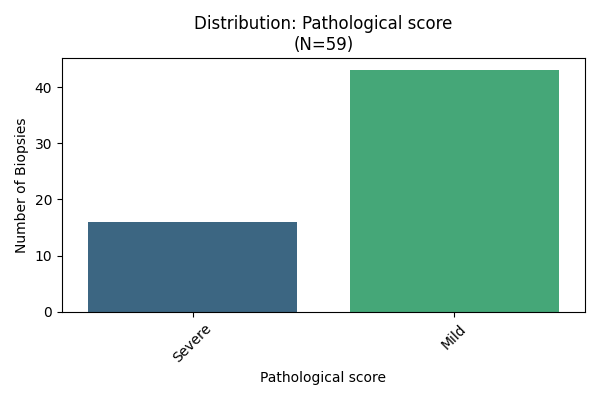
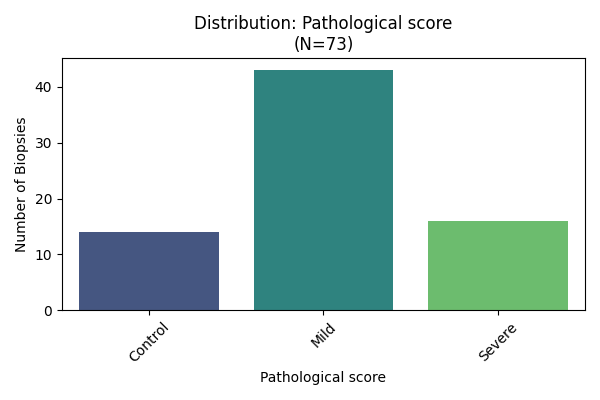
check data bias - add control biopsies

diff --git a/data_exploration/check_data_bias.py b/data_exploration/check_data_bias.py
@@ -38,8 +38,50 @@ def analyze_targets():
         print(f"Error: Metadata file not found at {DATA_PATH}")
         return
 
-    df = pd.read_csv(DATA_PATH)
-    print(f"Loaded {len(df)} Biopsies.")
+    df_biopsy = pd.read_csv(DATA_PATH)
+    print(f"Loaded {len(df_biopsy)} Biopsies from metadata.")
+
+    # --- Load FOVs and Merge Controls (Logic from run_association_mining.py) ---
+    fovs_path = MIBI_GUT_DIR_PATH + "fovs_metadata.csv"
+    
+    if os.path.exists(fovs_path):
+        df_fovs = pd.read_csv(fovs_path)
+        
+        # Filter unknown 'S_*' (same as _remove_unknown_biopsies)
+        df_fovs = df_fovs[~df_fovs["FOV"].astype(str).str.startswith("S_")]
+        
+        # Get unique Biopsies from FOVs
+        # "Patient" in fovs_metadata maps to "Biopsy_ID"
+        unique_biopsies = df_fovs[["Patient"]].drop_duplicates().rename(columns={"Patient": "Biopsy_ID"})
+        print(f"Total Biopsies from FOVs (excluding S_*): {len(unique_biopsies)}")
+
+        # Pre-process Biopsy Metadata (Shift Numerics) so 0 can be Control
+        numeric_targets = []
+        categorical_targets = []
+        
+        for col in TARGETS:
+            if col in df_biopsy.columns:
+                 if pd.api.types.is_numeric_dtype(df_biopsy[col]):
+                    # Shift 0->1, 1->2... so 0 can be Control
+                    df_biopsy[col] = df_biopsy[col] + 1
+                    numeric_targets.append(col)
+                 else:
+                    categorical_targets.append(col)
+
+        # Merge unique_biopsies (All) with df_biopsy (Metadata)
+        df = pd.merge(unique_biopsies, df_biopsy, on="Biopsy_ID", how="left")
+        
+        # Fill NaNs (Controls)
+        for col in numeric_targets:
+            df[col] = df[col].fillna(0)
+        
+        for col in categorical_targets:
+            df[col] = df[col].fillna("Control")
+            
+        print(f"Final Merged Biopsies for Analysis: {len(df)}")
+    else:
+        print(f"Warning: FOVs metadata not found at {fovs_path}. Using only Biopsy metadata.")
+        df = df_biopsy
     
     report = []
     
@@ -63,25 +105,30 @@ def analyze_targets():
         # Calculate "Imbalance Score" (Gini Impurity-like or just Max Prop)
         # 0.5 = Perfectly balanced (2 classes). 1.0 = All one class.
         majority_class_prop = props.max()
+
+        # Sort classes for Display and Plotting
+        sorted_classes = sorted(counts.index)
         
         # 2. Print Stats
         print(f"\n--- {target} (N={n}) ---")
-        for cls, count in counts.items():
-            print(f"   {cls}: {count} ({props[cls]:.1%})")
+        for cls in sorted_classes:
+            count = counts[cls]
+            prop = props[cls]
+            print(f"   {cls}: {count} ({prop:.1%})")
             
         # 3. Store for Plot
         report.append({
             "Target": target,
             "N": n,
             "Majority_Class_Prop": majority_class_prop,
-            "Majority_Class": counts.index[0],
+            "Majority_Class": counts.index[0], # Keep these based on frequency (counts)
             "Minority_Class": counts.index[-1],
             "Minority_Count": counts.values[-1]
         })
         
         # 4. Plot
         plt.figure(figsize=(6, 4))
-        sns.countplot(data=valid_df, x=target, palette="viridis")
+        sns.countplot(data=valid_df, x=target, palette="viridis", order=sorted_classes)
         plt.title(f"Distribution: {target}\n(N={n})")
         plt.ylabel("Number of Biopsies")
         plt.xticks(rotation=45)

diff --git a/README.md b/README.md
@@ -122,10 +122,12 @@ This section analyzes the stability of rules across different biological scales:
 
 ### Global Consensus (Universal Rules)
 *The rules appearing most frequently across the entire dataset, representing fundamental tissue structure.*
+
 <img src="results/full_run/plots/consensus_report/bar_global_consensus_KNN_R_no_self.png" width="600">
 
 ### Patient Similarity (Biopsy Clustering - CN)
 *Clustering patients based on the similarity of their rule sets (Jaccard Index). Groupings here indicate shared tissue microenvironments.*
+
 <img src="results/full_run/plots/consensus_report/clustermap_biopsy_similarity_CN_no_self.png" width="600">
 
 ### Stage Specificity (Disease Signatures)
